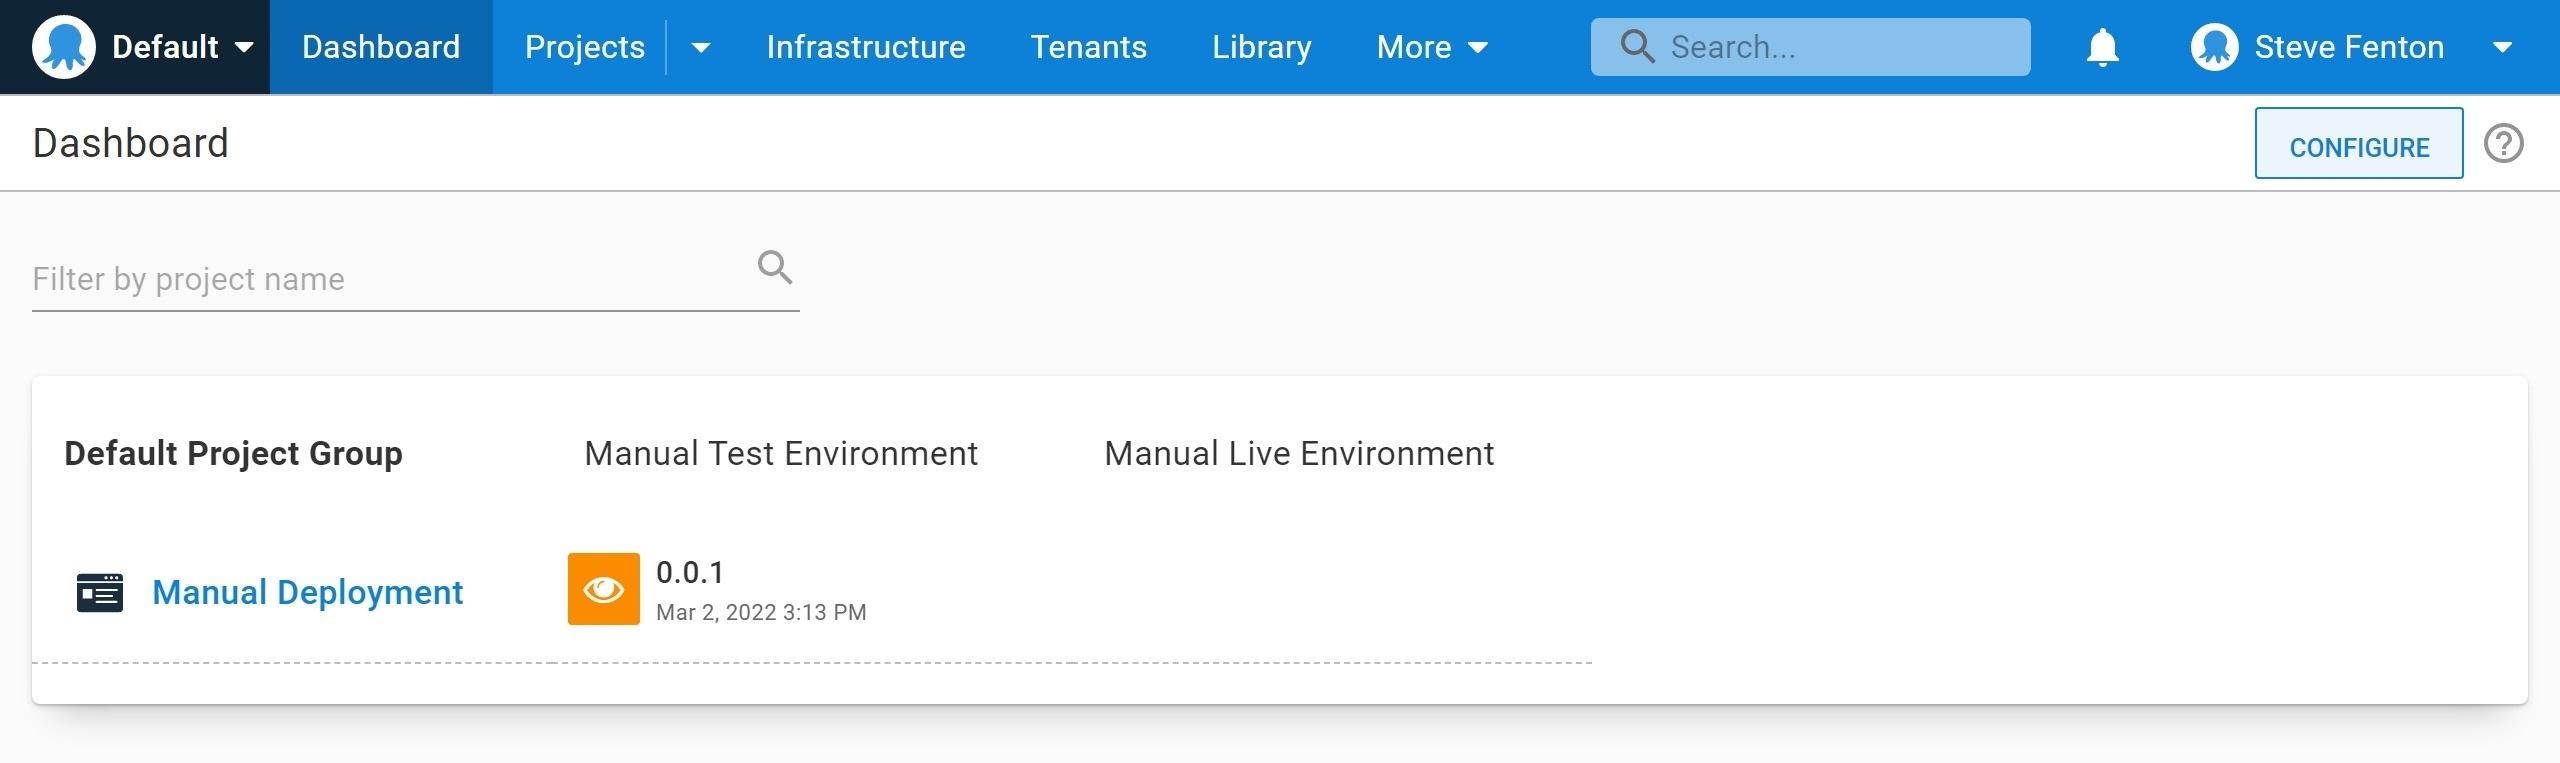
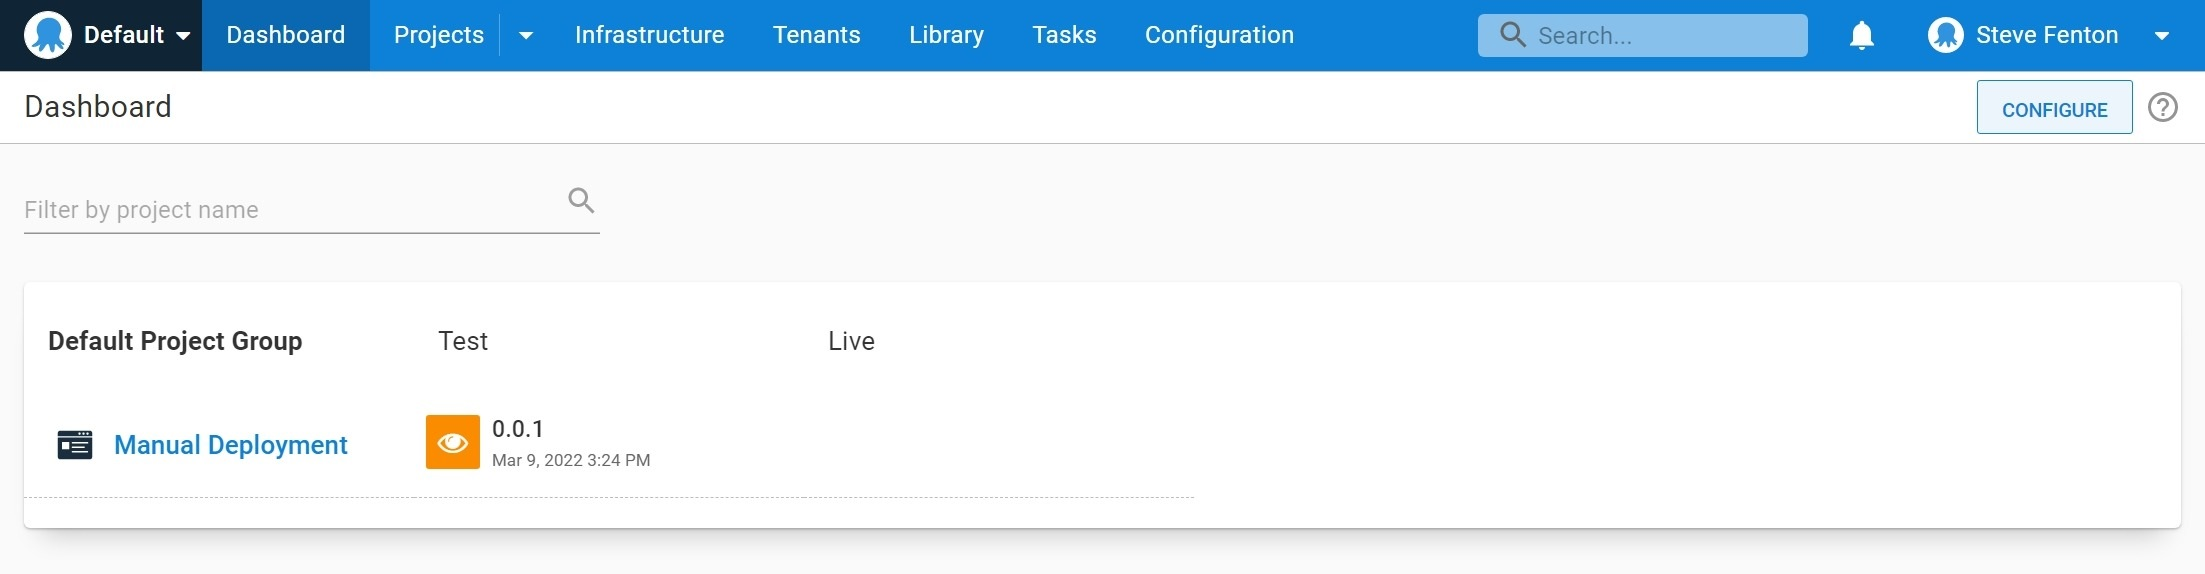
Incorporate Ryan's feedback.

diff --git a/blog/2022-03/mapping-manual-deployments/index.md b/blog/2022-03/mapping-manual-deployments/index.md
@@ -102,7 +102,7 @@ You can add environments with the following steps:
 
  - Navigate to **{{ Infrastructure,Environments }}**
  - Select **ADD ENVIRONMENT**
- - Enter a **New environment name**, for example "Manual Test Environment"
+ - Enter a **New environment name**, for example "Test"
  - Select **SAVE**
 
 :::hint
@@ -165,9 +165,9 @@ Although you don't have a package to deploy, you can still track the deployment 
 - Enter a **Version**, you can enter the version or build number of the application you are deploying
 - Select **SAVE**
 
-You can now track the manual deployment to each environment. The release can only proceed to the *manual live environment* if it first gets deployed to the *manual test environment* as controlled by the lifecycle you configured earlier.
+You can now track the manual deployment to each environment. The release can only proceed to the *live* environment if it first gets deployed to the *test* environment as controlled by the lifecycle you configured earlier.
 
-- From the release screen for your new version, select **DEPLOY TO MANUAL TEST ENVIRONMENT**
+- From the release screen for your new version, select **DEPLOY TO TEST**
 - A confirmation screen will appear, review the information and select **DEPLOY**
 
 The deployment is created for the release, and the first manual intervention step, "Backup the database", is ready to be picked up by a member of the DBA team. The release has a manual intervention icon to show you that it is waiting for a team member to pick it up.
